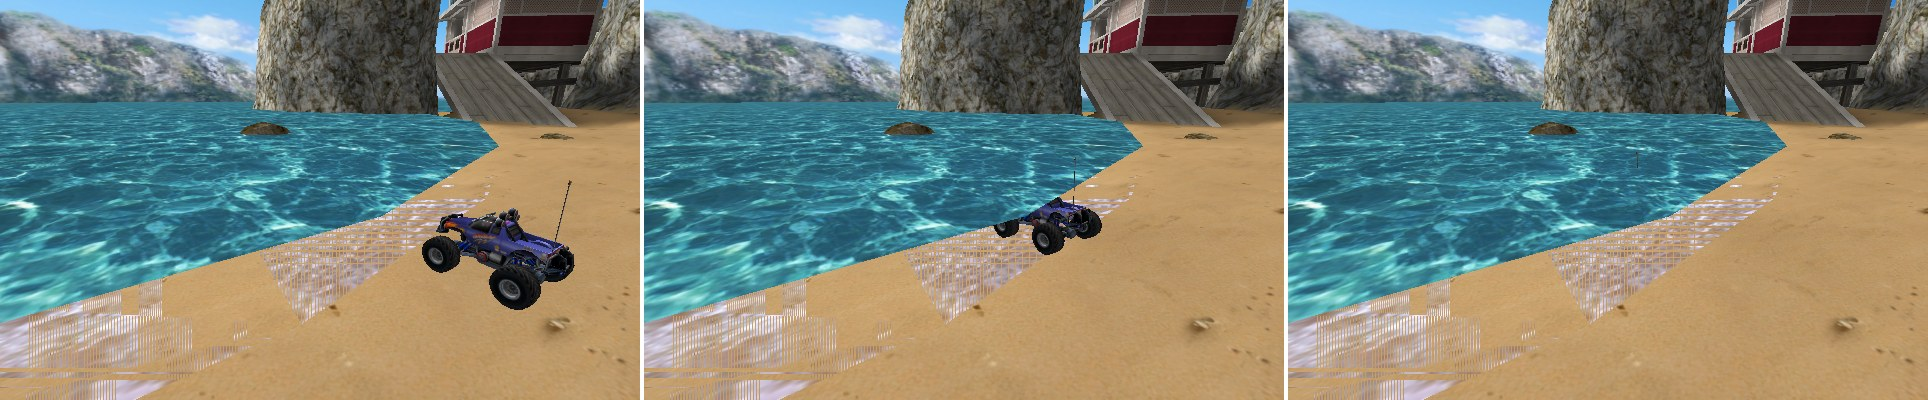
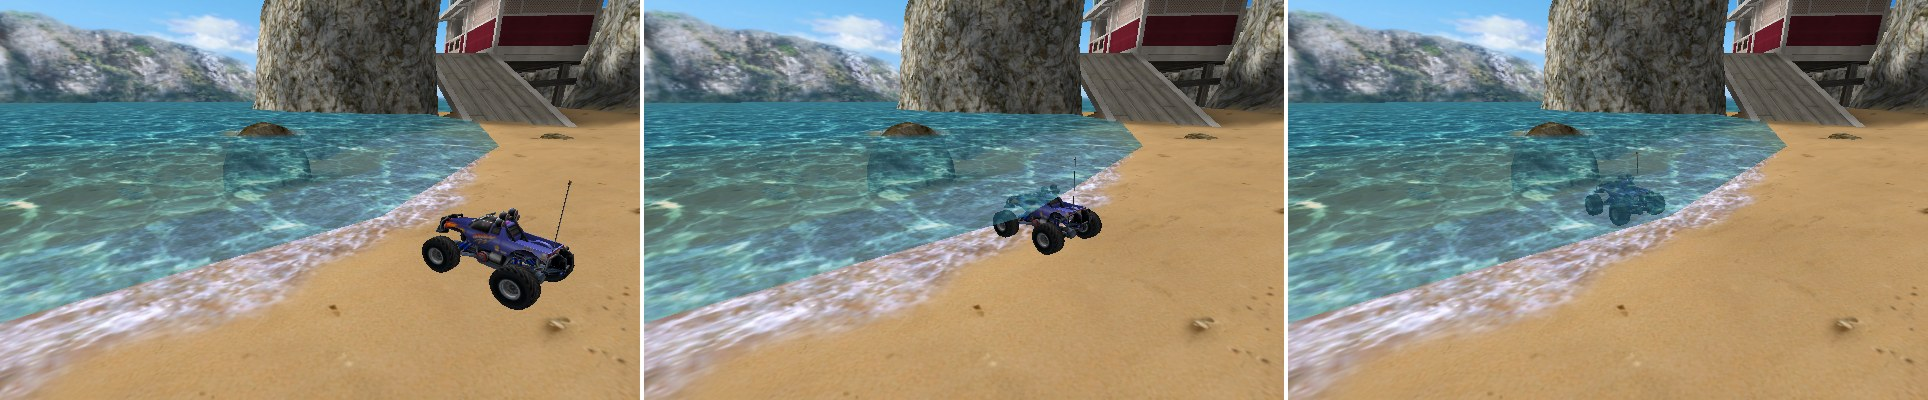
Shore: see-through shallow water and masked foam, drawn after the cars
The foam along the beaches (coast* faces: coast_base with an ALP1 mask
coast and no BAS2) was drawn opaque without its mask, as a striped strip
z-fighting with the sand. The mask is now the foam's opacity, the foam is
lifted 1 cm off the sand and drawn translucent.

The sea texture has no alpha, but the original draws water translucent
(WLOD_*.ini alphaMin 26 .. alphaMax 255). Each sea vertex now carries its
depth above the collision ground, and the shader fades shallow water out
(fully opaque from 0.8 m, transparent where the ground is above the
surface); sea triangles near the shore are split so the depth follows the
seabed. Translucent level batches are drawn after the cars, water last, so
a car in the sea shows through the water.

Claude-Session: https://claude.ai/code/session_01JbWGBD8LCn6gAtr5cxsygP

Changed region(s): [[0.6535, 0.27, 0.9336, 1.0], [0.3112, 0.3, 0.5913, 1.0], [0.0, 0.27, 0.2801, 1.0]]

diff --git a/game/world/levelmesh.cpp b/game/world/levelmesh.cpp
@@ -3,6 +3,8 @@
 #include <Tempest/Log>
 
 #include <algorithm>
+#include <cmath>
+#include <functional>
 #include <map>
 #include <tuple>
 
@@ -51,7 +53,7 @@ std::vector<bool> LevelMesh::hiddenMeshes(const rc::SbScene& scene) {
   return hidden;
   }
 
-LevelMesh::LevelMesh(Device& device, Resources& res, const rc::SbScene& scene)
+LevelMesh::LevelMesh(Device& device, Resources& res, const rc::SbScene& scene, const rc::CollisionMesh* ground)
   :pso(device) {
   bbox[0] = { 1e9f, 1e9f, 1e9f};
   bbox[1] = {-1e9f,-1e9f,-1e9f};
@@ -83,10 +85,44 @@ LevelMesh::LevelMesh(Device& device, Resources& res, const rc::SbScene& scene)
       key.model = m.model;
       key.base  = base->texture;
       key.light = light ? light->texture : -1;
-      if(mask && base2) {
+      if(mask) {
         key.mask  = mask->texture;
-        key.base2 = base2->texture;
+        key.base2 = base2 ? base2->texture : -1;
         }
+      // water (texture "sea") carries its depth above the solid ground in uvMask.x, see F_Water
+      const bool water = ground!=nullptr && mask==nullptr &&
+                         rc::surfaceOf(scene.texture(base->texture,m.model))==rc::Surface::Water;
+      if(water)
+        key.mask = -2; // own batch
+      auto depthAt = [&](const rc::Vec3& p) {
+        const auto floor = ground->groundHeight(p+rc::Vec3{0,0.05f,0},50.f); // not from higher up: rocks overhang the sea
+        return floor ? p.y-*floor : 100.f;
+        };
+      // the depth is interpolated per vertex: split big sea triangles near the shore so that it follows the seabed
+      std::function<void(std::vector<Vertex>&,const Vertex&,const Vertex&,const Vertex&,int)> subdivideWater;
+      subdivideWater = [&](std::vector<Vertex>& dst, const Vertex& a, const Vertex& b, const Vertex& c, int level) {
+        auto len = [](const Vertex& x, const Vertex& y) { return std::hypot(x.pos[0]-y.pos[0],x.pos[2]-y.pos[2]); };
+        const float shallowest = std::min({a.uvMask[0],b.uvMask[0],c.uvMask[0]});
+        if(level==0 || shallowest>1.f || std::max({len(a,b),len(b,c),len(c,a)})<0.3f) {
+          dst.push_back(a); dst.push_back(b); dst.push_back(c);
+          return;
+          }
+        auto mid = [&](const Vertex& x, const Vertex& y) {
+          Vertex v;
+          auto lerp = [](const float* s, const float* t, float* o, int k) { for(int i=0;i<k;++i) o[i] = (s[i]+t[i])*0.5f; };
+          lerp(x.pos,y.pos,v.pos,3);       lerp(x.normal,y.normal,v.normal,3);
+          lerp(x.uvBase,y.uvBase,v.uvBase,2); lerp(x.uvLight,y.uvLight,v.uvLight,2);
+          lerp(x.uvBase2,y.uvBase2,v.uvBase2,2);
+          v.uvMask[0] = depthAt({v.pos[0],v.pos[1],v.pos[2]});
+          v.uvMask[1] = 0;
+          return v;
+          };
+        const Vertex ab = mid(a,b), bc = mid(b,c), ca = mid(c,a);
+        subdivideWater(dst,a,ab,ca,level-1);
+        subdivideWater(dst,ab,b,bc,level-1);
+        subdivideWater(dst,ca,bc,c,level-1);
+        subdivideWater(dst,ab,bc,ca,level-1);
+        };
       auto& out = buckets[key];
 
       auto uv = [&](const rc::SbFace::Layer* l, size_t corner, float* dst) {
@@ -109,6 +145,10 @@ LevelMesh::LevelMesh(Device& device, Resources& res, const rc::SbScene& scene)
         uv(light,corner,v.uvLight);
         uv(mask, corner,v.uvMask);
         uv(base2,corner,v.uvBase2);
+        if(water)
+          v.uvMask[0] = depthAt(p);
+        if(mask!=nullptr && base2==nullptr)
+          v.pos[1] += 0.01f; // shore foam lies on the sand, lift it to keep it from z-fighting
         bbox[0] = {std::min(bbox[0].x,p.x),std::min(bbox[0].y,p.y),std::min(bbox[0].z,p.z)};
         bbox[1] = {std::max(bbox[1].x,p.x),std::max(bbox[1].y,p.y),std::max(bbox[1].z,p.z)};
         return v;
@@ -116,6 +156,10 @@ LevelMesh::LevelMesh(Device& device, Resources& res, const rc::SbScene& scene)
       // polygon -> triangle fan
       const Vertex v0 = vert(0);
       for(size_t i=1; i+1<n; ++i) {
+        if(water) {
+          subdivideWater(out,v0,vert(i),vert(i+1),3);
+          continue;
+          }
         out.push_back(v0);
         out.push_back(vert(i));
         out.push_back(vert(i+1));
@@ -136,12 +180,21 @@ LevelMesh::LevelMesh(Device& device, Resources& res, const rc::SbScene& scene)
       }
     b.tex[1] = key.light>=0 ? sceneTexture(res,scene,key.light,key.model,nullptr) : nullptr;
     b.tex[2] = key.mask >=0 ? sceneTexture(res,scene,key.mask, key.model,nullptr) : nullptr;
+    if(key.mask==-2) {
+      b.flags |= F_Water;
+      b.mode   = rc::AlphaMode::Translucent;
+      }
     b.tex[3] = key.base2>=0 ? sceneTexture(res,scene,key.base2,key.model,nullptr) : nullptr;
     if(b.tex[1]!=nullptr)
       b.flags |= F_Lightmap;
     if(b.tex[2]!=nullptr && b.tex[3]!=nullptr) {
       b.flags |= F_Blend;
       b.mode   = rc::AlphaMode::Opaque; // base alpha is not used for transparency on blended terrain
+      }
+    else if(b.tex[2]!=nullptr) {
+      // a mask without a second texture fades the base out: the foam along the shore (coast_base / coast)
+      b.flags |= F_Mask;
+      b.mode   = rc::AlphaMode::Translucent;
       }
     if(b.mode==rc::AlphaMode::Cutout)
       b.flags |= F_Cutout;
@@ -152,9 +205,10 @@ LevelMesh::LevelMesh(Device& device, Resources& res, const rc::SbScene& scene)
     batches.push_back(b);
     }
 
-  // opaque first, translucent last
-  std::stable_sort(batches.begin(),batches.end(),[](const Batch& a, const Batch& b){
-    return (a.mode==rc::AlphaMode::Translucent) < (b.mode==rc::AlphaMode::Translucent);
+  // opaque first, translucent last, and of those the water at the very end: foam and the like lie under it
+  auto order = [](const Batch& b) { return b.mode!=rc::AlphaMode::Translucent ? 0 : (b.flags & F_Water) ? 2 : 1; };
+  std::stable_sort(batches.begin(),batches.end(),[&](const Batch& a, const Batch& b){
+    return order(a) < order(b);
     });
 
   vbo            = device.vbo(all);
@@ -225,11 +279,13 @@ const Texture2d* LevelMesh::sceneTexture(Resources& res, const rc::SbScene& scen
   return &r->tex;
   }
 
-void LevelMesh::draw(Encoder<CommandBuffer>& enc, const Push& frame, bool drawSky) const {
+void LevelMesh::draw(Encoder<CommandBuffer>& enc, const Push& frame, Pass pass, bool drawSky) const {
   Push push = frame;
   const RenderPipeline* current = nullptr;
   for(auto& b:batches) {
     if(b.sky && !drawSky)
+      continue;
+    if((b.mode==rc::AlphaMode::Translucent)!=(pass==Pass::Translucent))
       continue;
     auto& p = pso.get(b.mode);
     if(current!=&p) {

diff --git a/game/world/levelmesh.h b/game/world/levelmesh.h
@@ -10,6 +10,7 @@
 #include <deque>
 #include <vector>
 
+#include "formats/collision.h"
 #include "formats/scene.h"
 #include "formats/csi.h"
 
@@ -41,6 +42,8 @@ class LevelMesh {
       F_Lightmap = 1, // keep in sync with shader/common.glsl
       F_Blend    = 2,
       F_Cutout   = 4,
+      F_Mask     = 8,
+      F_Water    = 16,
       };
 
     struct Push {
@@ -58,9 +61,12 @@ class LevelMesh {
       size_t untextured    = 0;
       };
 
-    LevelMesh(Tempest::Device& device, Resources& res, const rc::SbScene& scene);
+    // `ground` (the track collision) gives the water its depth, so that the sea fades out towards the shore
+    LevelMesh(Tempest::Device& device, Resources& res, const rc::SbScene& scene, const rc::CollisionMesh* ground = nullptr);
 
-    void         draw(Tempest::Encoder<Tempest::CommandBuffer>& enc, const Push& frame, bool drawSky = true) const;
+    // opaque and alpha-tested batches first, then (after the cars) the see-through ones: water, shore foam ...
+    enum class Pass { Opaque, Translucent };
+    void         draw(Tempest::Encoder<Tempest::CommandBuffer>& enc, const Push& frame, Pass pass, bool drawSky = true) const;
 
     rc::Vec3     bboxMin() const { return bbox[0]; }
     rc::Vec3     bboxMax() const { return bbox[1]; }

diff --git a/tools/rcshot.cpp b/tools/rcshot.cpp
@@ -122,9 +122,11 @@ int main(int argc, const char** argv) {
     {
       auto enc = cmd.startEncoding(device);
       enc.setFramebuffer({{color,Vec4(0.62f,0.72f,0.82f,1.f),Tempest::Preserve}},{depth,1.f,Tempest::Preserve});
-      level.mesh().draw(enc,push,std::getenv("RCSHOT_NOSKY")==nullptr);
+      const bool sky = std::getenv("RCSHOT_NOSKY")==nullptr;
+      level.mesh().draw(enc,push,LevelMesh::Pass::Opaque,sky);
       if(car)
         car->draw(enc,viewProj,push,carPose,parts.empty() ? nullptr : &parts);
+      level.mesh().draw(enc,push,LevelMesh::Pass::Translucent,sky);
       if(std::getenv("RCSHOT_COLL")!=nullptr)
         level.collisionView().draw(enc,push);
     }

diff --git a/game/mainwindow.cpp b/game/mainwindow.cpp
@@ -256,11 +256,13 @@ void MainWindow::render() {
       enc.setFramebuffer({{swapchain[swapchain.currentImage()],Vec4(0.62f,0.72f,0.82f,1.f),Tempest::Preserve}},
                          {zbuffer,1.f,Tempest::Preserve});
       if(level)
-        level->mesh().draw(enc,push);
+        level->mesh().draw(enc,push,LevelMesh::Pass::Opaque);
       if(car) {
         const auto parts = carPartPoses();
         car->draw(enc,viewProj,push,carPose,&parts);
         }
+      if(level)
+        level->mesh().draw(enc,push,LevelMesh::Pass::Translucent);
       if(level && showCollision)
         level->collisionView().draw(enc,push);
     }

diff --git a/game/world/level.cpp b/game/world/level.cpp
@@ -9,8 +9,8 @@
 Level::Level(Tempest::Device& device, Resources& res, const std::string& name)
   :levelName(name) {
   sb  = rc::SbScene::load(res.readFile(std::filesystem::path("RCCarsDB")/(name+".sb")));
-  gpu = std::make_unique<LevelMesh>(device,res,sb);
   coll    = rc::CollisionMesh(sb);
+  gpu     = std::make_unique<LevelMesh>(device,res,sb,&coll);
   collGpu = std::make_unique<CollisionView>(device,coll,sb);
   Tempest::Log::i("level \"",name,"\": ",sb.meshes.size()," meshes, ",sb.textures.size()," textures, ",
                   sb.markers.size()," markers, ",coll.triangles().size()," collision triangles");

diff --git a/README.md b/README.md
@@ -47,7 +47,7 @@ Projekt nie zawiera żadnych danych gry. Wczytuje assety z legalnie kupionej ins
 
 ![Jazda: skręt w lewo (beach_1)](docs/driving_beach_1.jpg)
 
-![Auto wjeżdża do morza i tonie: na piasku, na brzegu, pod wodą widać tylko antenę (beach_1)](docs/water_beach_1.jpg)
+![Auto wjeżdża do morza i tonie: na piasku, na brzegu, pod wodą (beach_1)](docs/water_beach_1.jpg)
 
 ![Urban 1](docs/urban_1.jpg)
 
@@ -211,6 +211,12 @@ lib/Tempest     silnik (submoduł git)
   (`pool1..3`), na country_3 strumień (kilka cm) i wodospady. `Settings/Water.ini` (`speedDropCenter` 125/500,
   `speedDropOther` 76/500, `DampingVelocity2` 950/1000) czytamy jako utratę prędkości przy wpadnięciu do wody
   nadwozia i kół oraz tłumienie pod wodą; to nasze odczytanie nazw.
+- Wygląd wody: tekstura `sea` nie ma kanału alfa, ale oryginał rysuje wodę półprzezroczystą (`Settings/WLOD_*.ini`:
+  `alphaMin` 26 … `alphaMax` 255, `distAlphaClampMax` 8, fale, env mapa). U nas płytka woda jest przezroczysta wg
+  głębokości nad dnem z kolizji (pełne krycie od 0,8 m; jednostka `distAlphaClampMax` to nasze zgadywanie), bez fal.
+  Piana przy brzegu to ściany `coast*` z teksturą `coast_base` i maską `ALP1` `coast` bez `BAS2`: maska to
+  przezroczystość piany (falista krawędź). W oryginale piana przesuwa się po plaży (`waterLOD_coast.ini`:
+  `HeightOn/HeightOff`, `ScrollVel`, `AlphaMin` 36), u nas stoi.
 - Start auta gracza to `INST 'Player'` w folderze `Players`; jego oś +Z wskazuje kierunek jazdy. Auta są w skali
   modeli RC (ok. 0,4–0,6 m długości), przód modelu to +Z.
 
